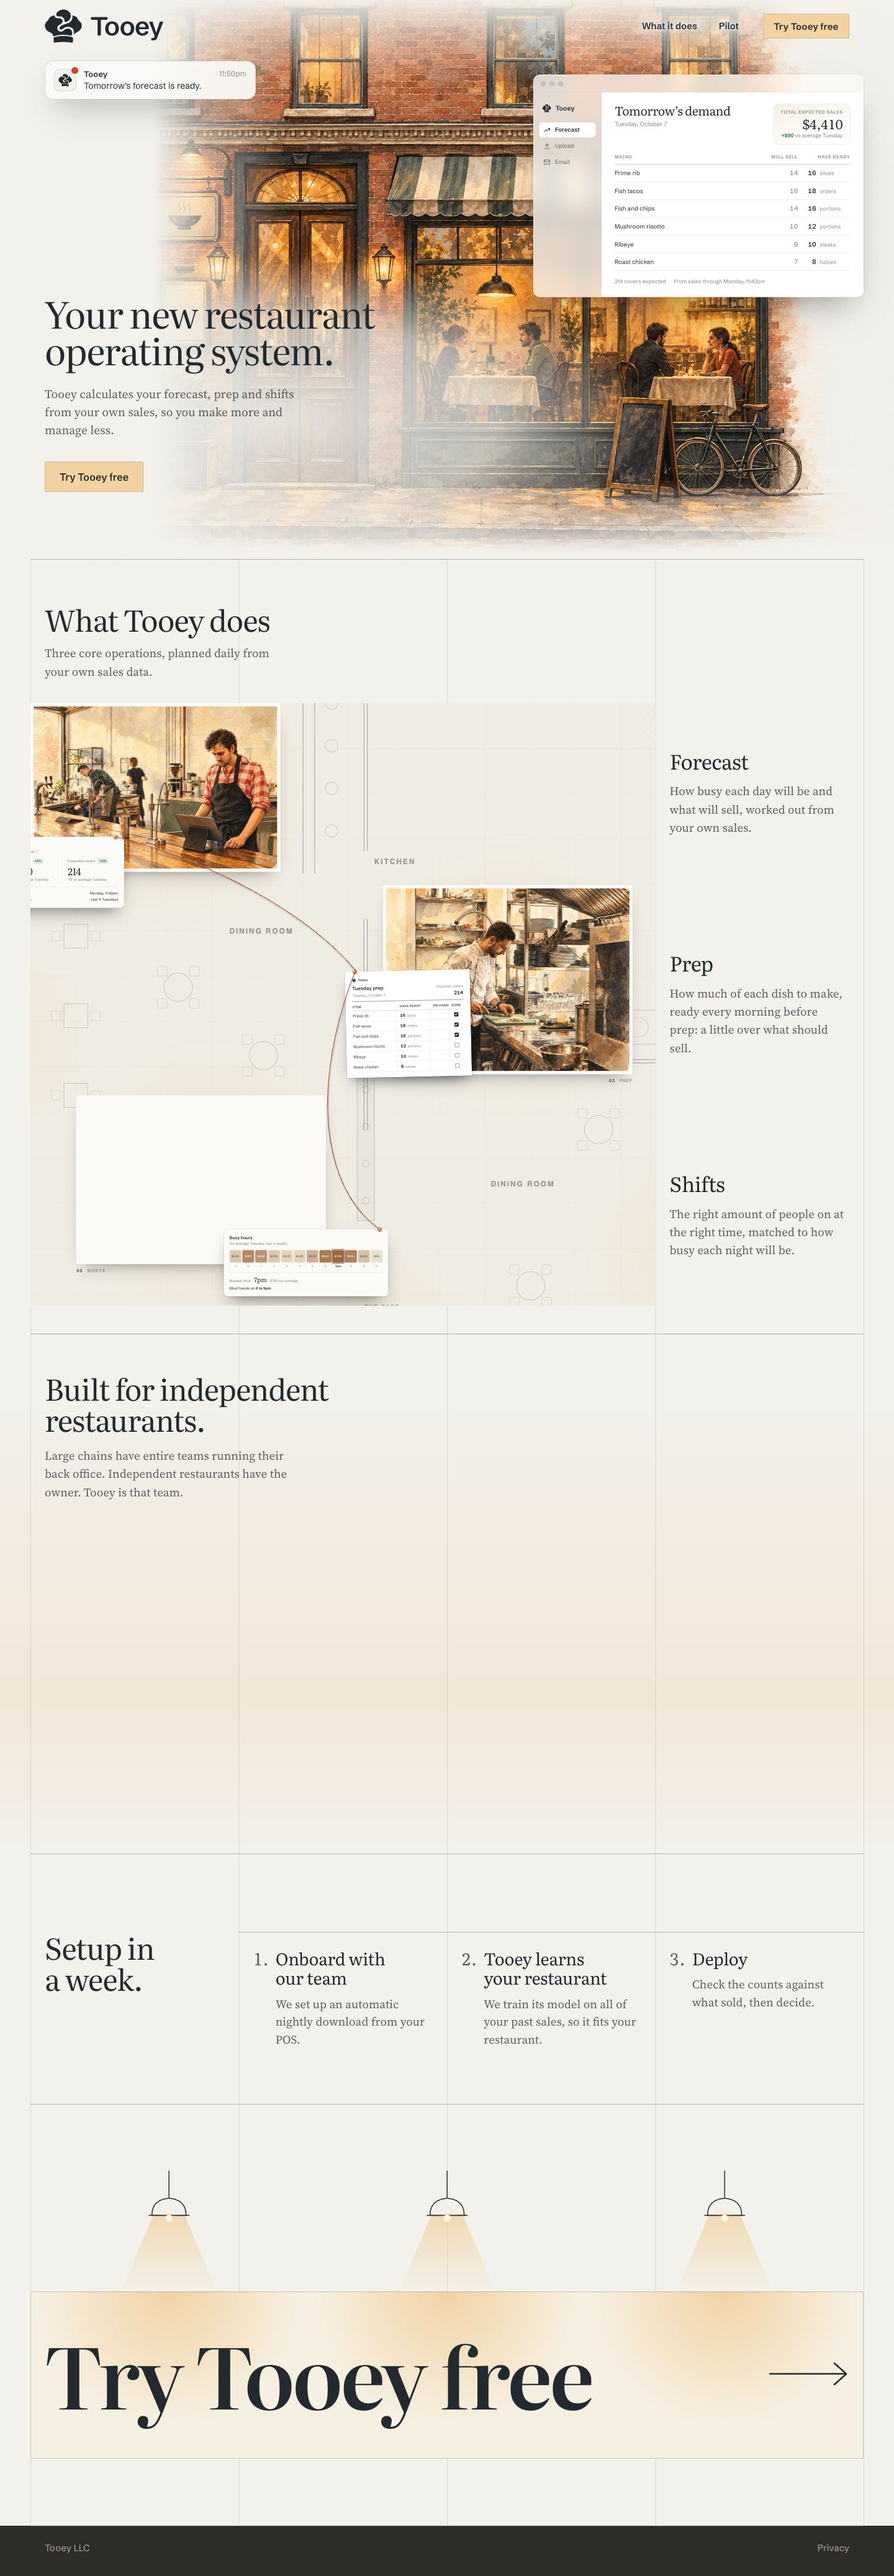
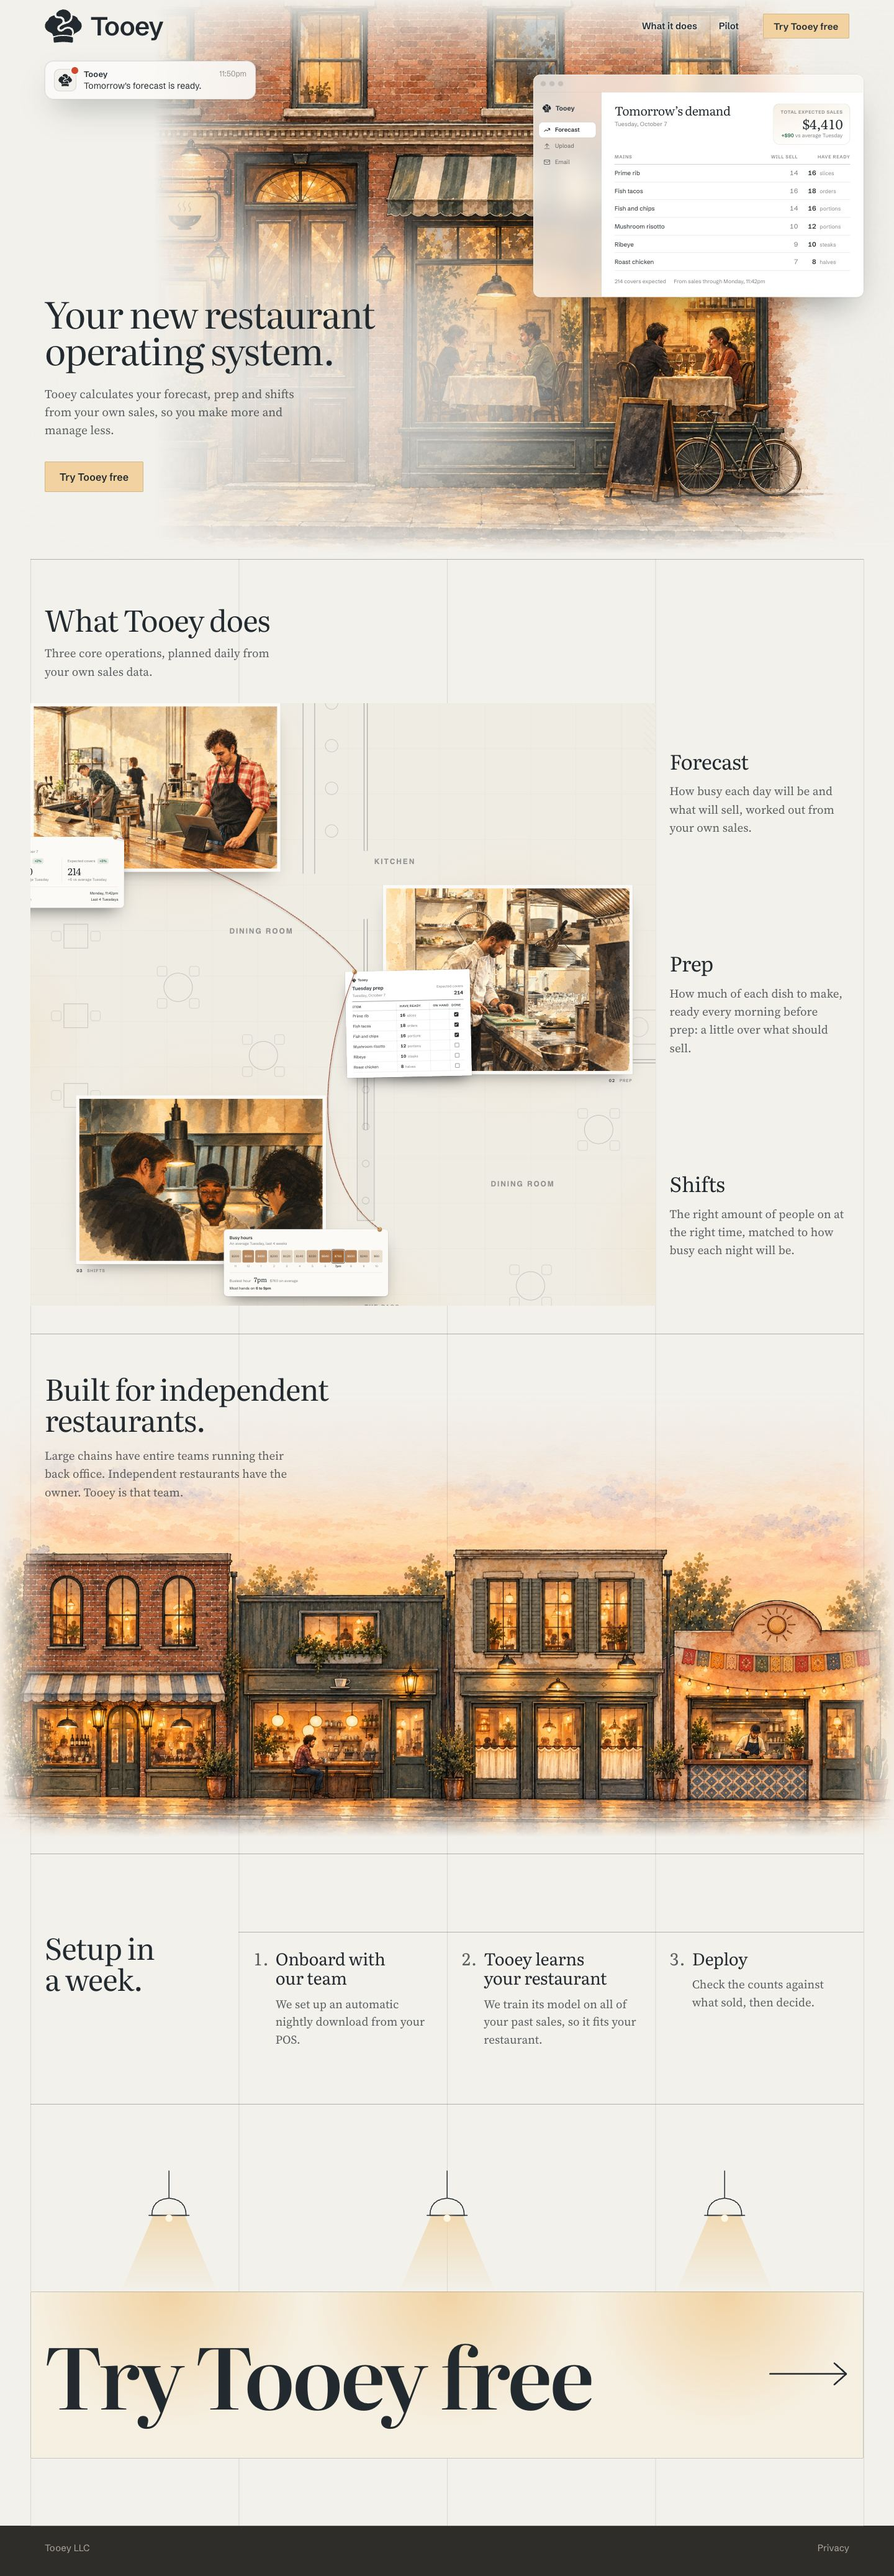
Exploration 49: hero fog reaches higher

Changed region(s): [[0.0, 0.5599, 1.0, 0.7155], [0.1875, 0.0622, 0.6875, 0.1555], [0.0625, 0.4044, 0.375, 0.4977]]

diff --git a/explorations/49-ink/styles.css b/explorations/49-ink/styles.css
@@ -429,7 +429,7 @@ html:not(.motion) .steam { stroke-opacity: .3; }
 /* the words sit on a little cleared paper as the drawing runs under them */
 .hero-copy::before {
   content: ""; position: absolute; z-index: -1;
-  inset: -14% -48% -8% -30%;
+  inset: -40% -48% -8% -30%;
   background: radial-gradient(closest-side, rgba(242, 241, 236, .92), rgba(242, 241, 236, .7) 60%, rgba(242, 241, 236, 0));
 }
 
